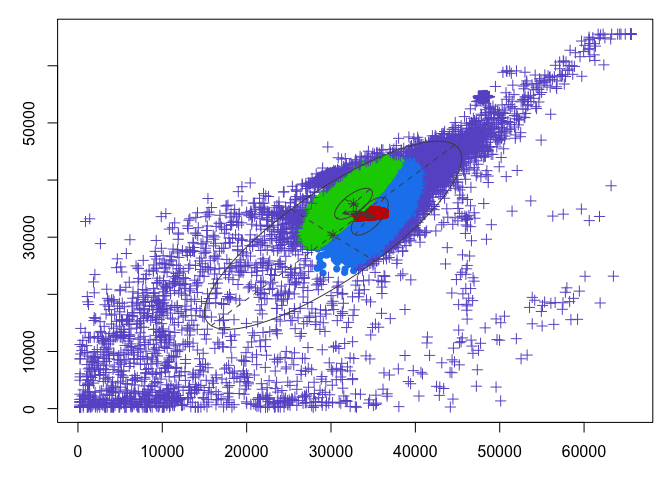
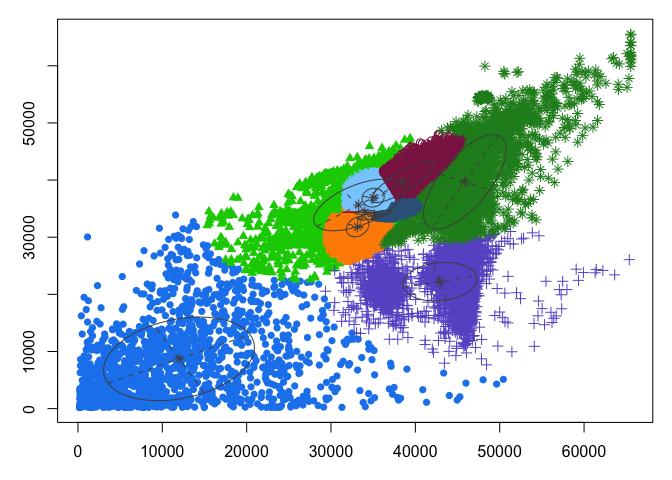
add file

diff --git a/workflow/04a-GMM-for-Z-project.md b/workflow/04a-GMM-for-Z-project.md
@@ -1,6 +1,6 @@
 04a-GMM for Z-project
 ================
-Compiled at 2023-09-25 10:05:25 UTC
+Compiled at 2023-09-27 15:51:35 UTC
 
 ``` r
 here::i_am(paste0(params$name, ".Rmd"), uuid = "9d6a84ea-ebe8-4073-bfe1-9e2529a9d667")
@@ -33,10 +33,10 @@ path_source <- projthis::proj_path_source(params$name)
 ## Import data
 
 ``` r
-DAPI <- readRDS("~/Desktop/new_DAPI.rds")
-FDA_PI <- readRDS("~/Desktop/new_FDA_PI.rds")
-gating_DAPI <- readRDS("~/Desktop/gating_DAPI.rds")
-gating_FDA_PI <- readRDS("~/Desktop/gating_FDA_PI.rds")
+DAPI <- readRDS("~/Desktop/MSc_new_data/new_DAPI.rds")
+FDA_PI <- readRDS("~/Desktop/MSc_new_data/new_FDA_PI.rds")
+gating_DAPI <- readRDS("~/Desktop/MSc_new_data/gating_DAPI.rds")
+gating_FDA_PI <- readRDS("~/Desktop/MSc_new_data/gating_FDA_PI.rds")
 ```
 
 Generate function body.
@@ -58,22 +58,47 @@ flowGMM <- function(data,n_cluster){
 
 ## DAPI
 
+In the first part, we don’t specify the number of clusters, the best
+results will be determined by cross validation.
+
 ``` r
 DAPI_GMM <- list()
 
 for (i in 1:5){
   data <- DAPI[[i]]@exprs[,c(11,27)]
   data_name <- names(DAPI)[i]
-  n_cluster <- length(gating_DAPI[[i]]@sigma)
-  DAPI_GMM[[data_name]]<-flowGMM(data,n_cluster)
+  DAPI_GMM[[data_name]]<-flowGMM(data,NULL)
   
   par(mar = c(3,3,1,1))
   plot(DAPI_GMM[[i]]$model,what="classification",main=data_name,xlab="PMT.1",ylab="PMT.9")
+  plot(DAPI_GMM[[i]]$model,what="BIC")
 }
 ```
 
-![](04a-GMM-for-Z-project_files/figure-gfm/application-1.png)<!-- -->![](04a-GMM-for-Z-project_files/figure-gfm/application-2.png)<!-- -->![](04a-GMM-for-Z-project_files/figure-gfm/application-3.png)<!-- -->![](04a-GMM-for-Z-project_files/figure-gfm/application-4.png)<!-- -->![](04a-GMM-for-Z-project_files/figure-gfm/application-5.png)<!-- -->
-\## FDA_PI
+![](04a-GMM-for-Z-project_files/figure-gfm/application-1.png)<!-- -->![](04a-GMM-for-Z-project_files/figure-gfm/application-2.png)<!-- -->![](04a-GMM-for-Z-project_files/figure-gfm/application-3.png)<!-- -->![](04a-GMM-for-Z-project_files/figure-gfm/application-4.png)<!-- -->![](04a-GMM-for-Z-project_files/figure-gfm/application-5.png)<!-- -->![](04a-GMM-for-Z-project_files/figure-gfm/application-6.png)<!-- -->![](04a-GMM-for-Z-project_files/figure-gfm/application-7.png)<!-- -->![](04a-GMM-for-Z-project_files/figure-gfm/application-8.png)<!-- -->![](04a-GMM-for-Z-project_files/figure-gfm/application-9.png)<!-- -->![](04a-GMM-for-Z-project_files/figure-gfm/application-10.png)<!-- -->
+
+Next, we’d like to fix the cluster number to be the same as it generates
+by flowEMMi.
+
+``` r
+DAPI_GMM_flowemmi <- list()
+
+for (i in 1:5){
+  data <- DAPI[[i]]@exprs[,c(11,27)]
+  data_name <- names(DAPI)[i]
+  n_cluster <- length(gating_DAPI[[i]]@sigma)
+  DAPI_GMM_flowemmi[[data_name]]<-flowGMM(data,n_cluster)
+  
+  par(mar = c(3,3,1,1))
+  plot(DAPI_GMM_flowemmi[[i]]$model,what="classification",main=data_name,xlab="PMT.1",ylab="PMT.9")
+}
+```
+
+![](04a-GMM-for-Z-project_files/figure-gfm/application+flowEMMi-1.png)<!-- -->![](04a-GMM-for-Z-project_files/figure-gfm/application+flowEMMi-2.png)<!-- -->![](04a-GMM-for-Z-project_files/figure-gfm/application+flowEMMi-3.png)<!-- -->![](04a-GMM-for-Z-project_files/figure-gfm/application+flowEMMi-4.png)<!-- -->![](04a-GMM-for-Z-project_files/figure-gfm/application+flowEMMi-5.png)<!-- -->
+
+The same procedure for FDA_PI dataset.
+
+## FDA_PI
 
 ``` r
 FDA_PI_GMM <- list()
@@ -81,15 +106,31 @@ FDA_PI_GMM <- list()
 for (i in 1:5){
   data <- FDA_PI[[i]]@exprs[,c(11,15)]
   data_name <- names(FDA_PI)[i]
-  n_cluster <- length(gating_FDA_PI[[i]]@sigma)
-  FDA_PI_GMM[[data_name]]<-flowGMM(data,n_cluster)
+  FDA_PI_GMM[[data_name]]<-flowGMM(data,NULL)
   
   par(mar = c(3,3,1,1))
   plot(FDA_PI_GMM[[i]]$model,what="classification",main=data_name,xlab="PMT.1",ylab="PMT.3")
+  plot(FDA_PI_GMM[[i]]$model,what="BIC",main=data_name,xlab="PMT.1",ylab="PMT.3")
 }
 ```
 
-![](04a-GMM-for-Z-project_files/figure-gfm/application2-1.png)<!-- -->![](04a-GMM-for-Z-project_files/figure-gfm/application2-2.png)<!-- -->![](04a-GMM-for-Z-project_files/figure-gfm/application2-3.png)<!-- -->![](04a-GMM-for-Z-project_files/figure-gfm/application2-4.png)<!-- -->![](04a-GMM-for-Z-project_files/figure-gfm/application2-5.png)<!-- -->
+![](04a-GMM-for-Z-project_files/figure-gfm/application2-1.png)<!-- -->![](04a-GMM-for-Z-project_files/figure-gfm/application2-2.png)<!-- -->![](04a-GMM-for-Z-project_files/figure-gfm/application2-3.png)<!-- -->![](04a-GMM-for-Z-project_files/figure-gfm/application2-4.png)<!-- -->![](04a-GMM-for-Z-project_files/figure-gfm/application2-5.png)<!-- -->![](04a-GMM-for-Z-project_files/figure-gfm/application2-6.png)<!-- -->![](04a-GMM-for-Z-project_files/figure-gfm/application2-7.png)<!-- -->![](04a-GMM-for-Z-project_files/figure-gfm/application2-8.png)<!-- -->![](04a-GMM-for-Z-project_files/figure-gfm/application2-9.png)<!-- -->![](04a-GMM-for-Z-project_files/figure-gfm/application2-10.png)<!-- -->
+
+``` r
+FDA_PI_GMM_flowemmi <- list()
+
+for (i in 1:5){
+  data <- FDA_PI[[i]]@exprs[,c(11,15)]
+  data_name <- names(FDA_PI)[i]
+  n_cluster <- length(gating_FDA_PI[[i]]@sigma)
+  FDA_PI_GMM_flowemmi[[data_name]]<-flowGMM(data,n_cluster)
+  
+  par(mar = c(3,3,1,1))
+  plot(FDA_PI_GMM_flowemmi[[i]]$model,what="classification",main=data_name,xlab="PMT.1",ylab="PMT.3")
+}
+```
+
+![](04a-GMM-for-Z-project_files/figure-gfm/application2+flowEMMi-1.png)<!-- -->![](04a-GMM-for-Z-project_files/figure-gfm/application2+flowEMMi-2.png)<!-- -->![](04a-GMM-for-Z-project_files/figure-gfm/application2+flowEMMi-3.png)<!-- -->![](04a-GMM-for-Z-project_files/figure-gfm/application2+flowEMMi-4.png)<!-- -->![](04a-GMM-for-Z-project_files/figure-gfm/application2+flowEMMi-5.png)<!-- -->
 
 ## Files written
 
